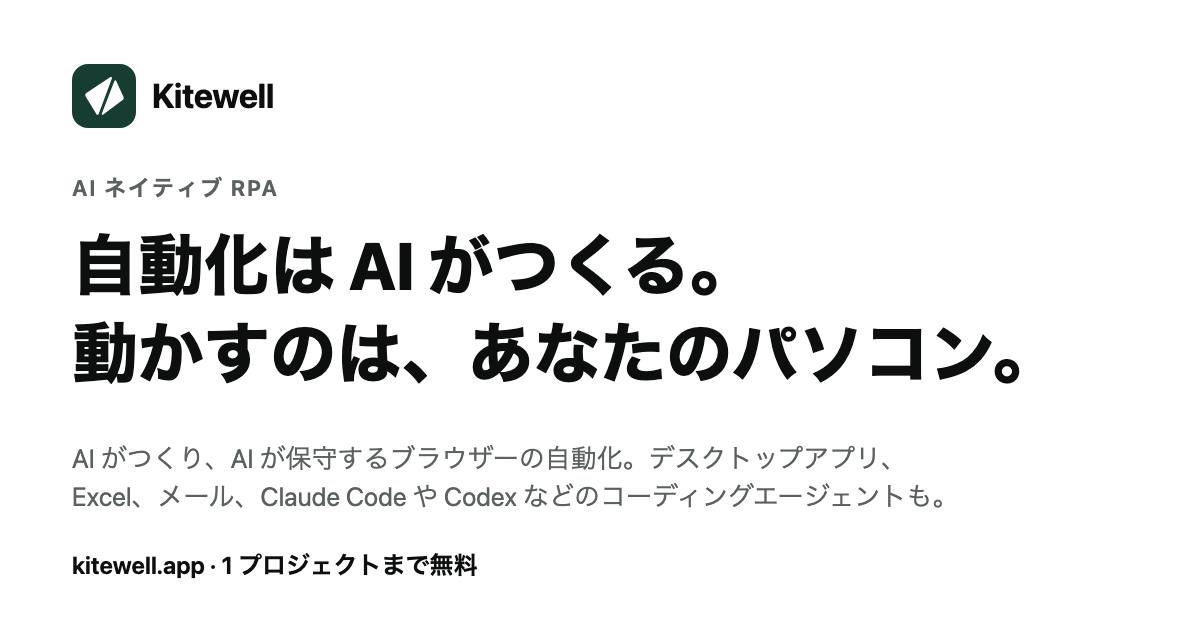
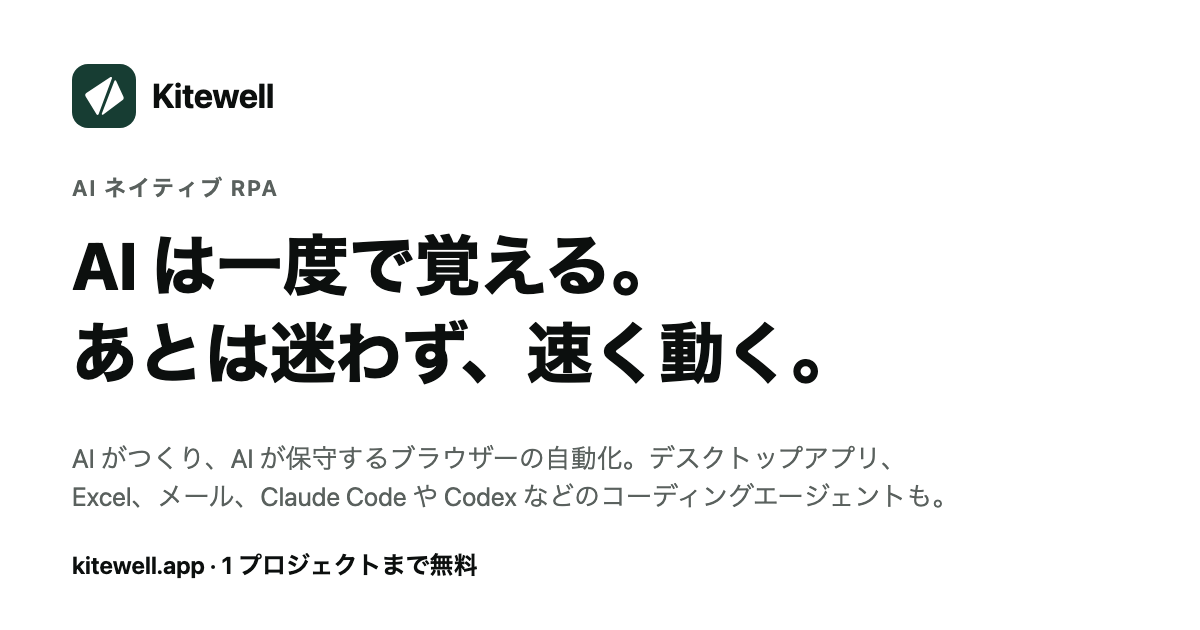
Lead with learning once and running fast
"Your computer runs it" named where Kitewell runs, which no longer
holds once Kitewell Cloud and company computers run workflows, and it
missed what sets Kitewell apart from computer-use agents. Those ask
the model for every click on every run; Kitewell repeats what worked,
so runs stay fast and costs don't grow with every run. The hero, the
page title, the footer line, the link preview cards, and the README
now say so in every language.

The headline sets a size its longest line fits on a computer screen,
and each line wraps on its own, so a phone never leaves one word alone.

Changed region(s): [[0.0617, 0.5127, 0.8633, 0.6333], [0.0617, 0.3619, 0.6167, 0.4825]]

diff --git a/website/src/styles/home.css b/website/src/styles/home.css
@@ -4,13 +4,14 @@
 .home .intro {
   padding-block: 88px 24px;
 }
+/* Each line of the headline stays on one row on a computer screen, so the
+   size follows its longest line, the second. */
 .home .intro h1 {
-  font-size: clamp(40px, 6.4vw, 84px);
+  font-size: clamp(36px, 5vw, 64px);
 }
-/* French and German run longer than English, so their headline sets a
-   size smaller. */
-:is(:lang(fr), :lang(de)) .home .intro h1 {
-  font-size: clamp(36px, 5.4vw, 72px);
+.home .intro h1 > span {
+  display: block;
+  text-wrap: balance;
 }
 :is(:lang(ja), :lang(zh), :lang(ko)) .home .intro h1 {
   font-size: clamp(32px, 4.8vw, 60px);

diff --git a/README.ja.md b/README.ja.md
@@ -9,7 +9,7 @@
   </a>
 </p>
 
-<h1 align="center">自動化は AI がつくる。<br>動かすのは、あなたのパソコン。</h1>
+<h1 align="center">AI は一度で覚える。<br>あとは迷わず、速く動く。</h1>
 
 <p align="center">
   やってほしい仕事を伝えれば、AI が目の前のブラウザーで自動化をつくり、サイトが変わったら直します。デスクトップアプリ、Excel、メール、Claude Code などのコーディングエージェントも同じように、スケジュールや Webhook で、大事なところはあなたの OK を待って動きます。外出先からも、スマホで見守れます。

diff --git a/README.md b/README.md
@@ -9,7 +9,7 @@
   </a>
 </p>
 
-<h1 align="center">AI builds the automation.<br>Your computer runs it.</h1>
+<h1 align="center">AI learns the job once.<br>Then it runs fast, without second-guessing.</h1>
 
 <p align="center">
   Describe the job, and AI builds the automation in a browser you can watch,
